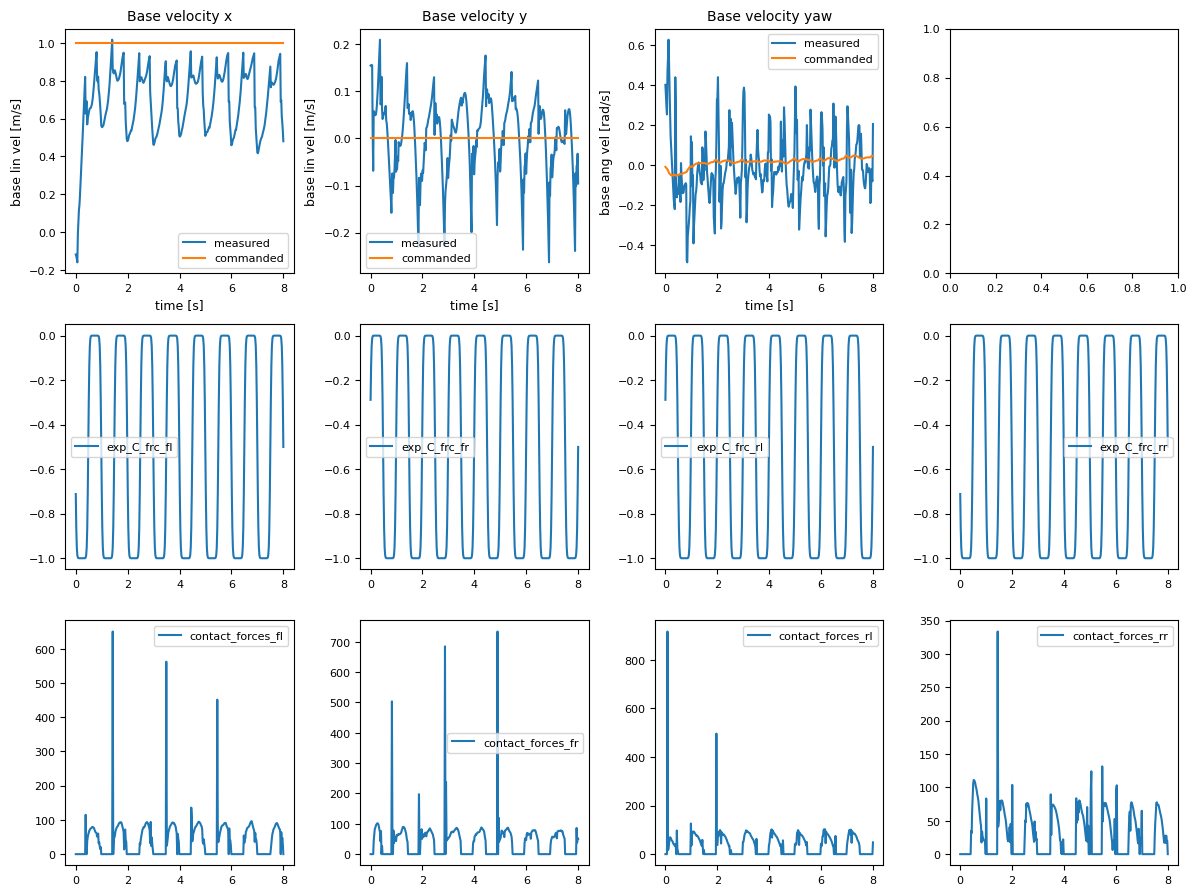
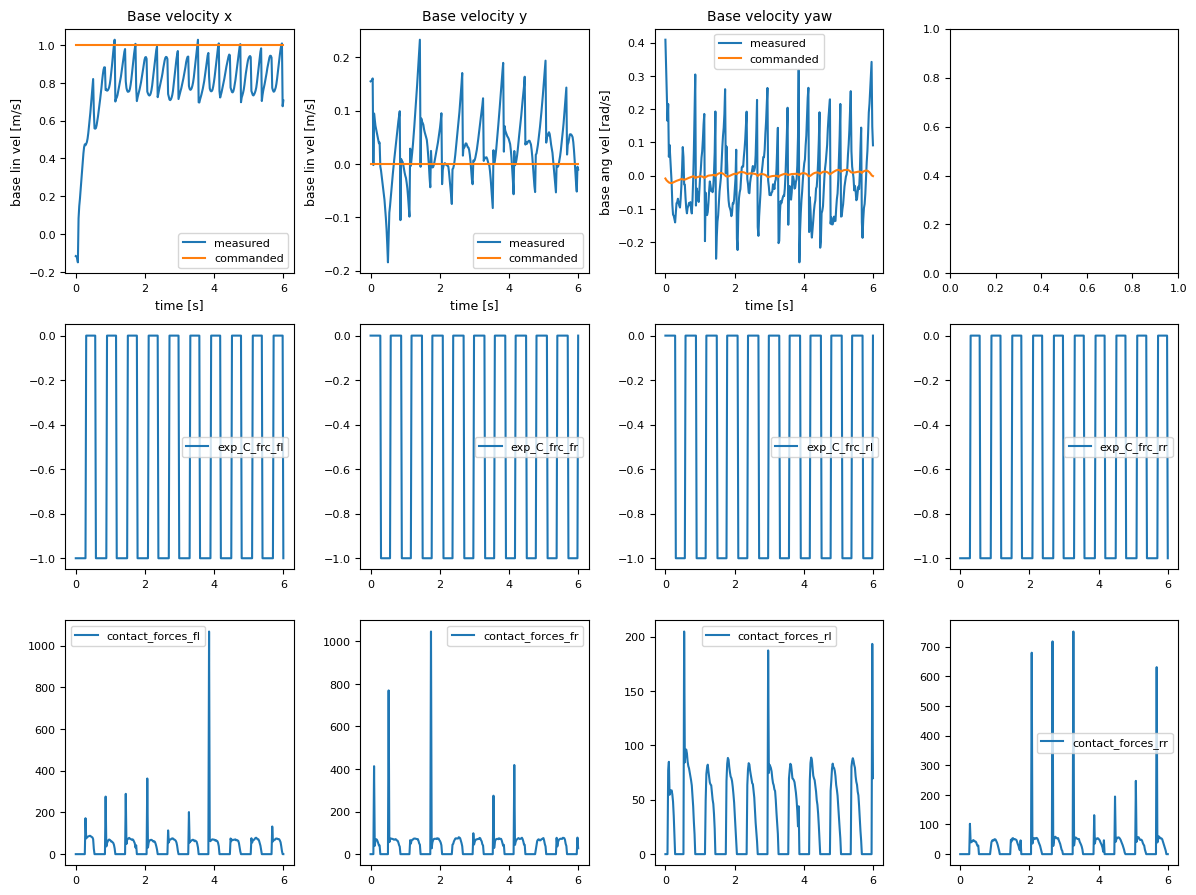
step and smooth gait functions added

diff --git a/legged_gym/envs/go2/go2_deploy/go2_deploy.py b/legged_gym/envs/go2/go2_deploy/go2_deploy.py
@@ -55,10 +55,10 @@ class GO2Deploy(LeggedRobot):
         # step after computing reward but before resetting the env
         self.gait_time += self.dt
         # +self.dt/2 in case of float precision errors
-        is_over_limit = (self.gait_time >= (torch.ones_like(
-            self.gait_time, device=self.device, dtype=gs.tc_float) - self.dt / 2))
+        is_over_limit = (self.gait_time >= (self.gait_period - self.dt / 2))
         over_limit_indices = is_over_limit.nonzero(as_tuple=False).flatten()
         self.gait_time[over_limit_indices] = 0.0
+        self.phi = self.gait_time / self.gait_period
         
         env_ids = self.reset_buf.nonzero(as_tuple=False).flatten()
         if self.num_build_envs > 0:
@@ -85,9 +85,9 @@ class GO2Deploy(LeggedRobot):
             self.dof_vel * self.obs_scales.dof_vel,        # dp_t    12
             self.actions,                                  # a_{t-1} 12
             self.clock_input,                              # clock   4
-            self.theta_fl, self.theta_fr, 
-            self.theta_rl, self.theta_rr,                  # gait offset 4
+            self.theta,                                    # gait offset 4
             self.gait_period,                              # gait period 1
+            self.b_swing,                                  # swing phase ratio 1
         ), dim=-1)
 
         if self.cfg.domain_rand.randomize_ctrl_delay:
@@ -106,9 +106,9 @@ class GO2Deploy(LeggedRobot):
                 self.dof_vel * self.obs_scales.dof_vel,        # dp_t    12
                 self.actions,                                  # a_{t-1} 12
                 self.clock_input,                              # clock   4
-                self.theta_fl, self.theta_fr, 
-                self.theta_rl, self.theta_rr,                  # gait offset 4
+                self.theta,                                    # gait offset 4
                 self.gait_period,                              # gait period 1
+                self.b_swing,                                  # swing phase ratio 1
                 # domain randomization parameters
                 self._rand_push_vels[:, :2],                   # 2
                 self._added_base_mass,                         # 1
@@ -153,38 +153,36 @@ class GO2Deploy(LeggedRobot):
             self.critic_history[i][env_ids] *= 0
         # Periodic Reward Framework
         self.gait_time[env_ids] = 0.0
+        self.phi[env_ids] = 0.0
         self.clock_input[env_ids, :] = 0.0
     
     def resample_gait(self, env_ids):
         if self.cfg.rewards.periodic_reward_framework.selected_gait is not None:
             gait = self.cfg.rewards.periodic_reward_framework.selected_gait
-            self.theta_fl[env_ids, :] = self.cfg.rewards.periodic_reward_framework.theta_fl[gait]
-            self.theta_fr[env_ids, :] = self.cfg.rewards.periodic_reward_framework.theta_fr[gait]
-            self.theta_rl[env_ids, :] = self.cfg.rewards.periodic_reward_framework.theta_rl[gait]
-            self.theta_rr[env_ids, :] = self.cfg.rewards.periodic_reward_framework.theta_rr[gait]
+            self.theta[env_ids, 0] = self.cfg.rewards.periodic_reward_framework.theta_fl[gait]
+            self.theta[env_ids, 1] = self.cfg.rewards.periodic_reward_framework.theta_fr[gait]
+            self.theta[env_ids, 2] = self.cfg.rewards.periodic_reward_framework.theta_rl[gait]
+            self.theta[env_ids, 3] = self.cfg.rewards.periodic_reward_framework.theta_rr[gait]
             self.gait_period[env_ids, :] = self.cfg.rewards.periodic_reward_framework.gait_period[gait]
             self.b_swing[env_ids, :] = self.cfg.rewards.periodic_reward_framework.b_swing[gait] * 2 * torch.pi
         else:
             # resample gait
             gait = torch.randint(
                 0, self.cfg.rewards.periodic_reward_framework.num_gaits, (len(env_ids),), device=self.device)
-            self.theta_fl[env_ids, :] = self.cfg.rewards.periodic_reward_framework.theta_fl[gait]
-            self.theta_fr[env_ids, :] = self.cfg.rewards.periodic_reward_framework.theta_fr[gait]
-            self.theta_rl[env_ids, :] = self.cfg.rewards.periodic_reward_framework.theta_rl[gait]
-            self.theta_rr[env_ids, :] = self.cfg.rewards.periodic_reward_framework.theta_rr[gait]
+            self.theta[env_ids, 0] = self.cfg.rewards.periodic_reward_framework.theta_fl[gait]
+            self.theta[env_ids, 1] = self.cfg.rewards.periodic_reward_framework.theta_fr[gait]
+            self.theta[env_ids, 2] = self.cfg.rewards.periodic_reward_framework.theta_rl[gait]
+            self.theta[env_ids, 3] = self.cfg.rewards.periodic_reward_framework.theta_rr[gait]
             self.gait_period[env_ids, :] = self.cfg.rewards.periodic_reward_framework.gait_period[gait]
             self.b_swing[env_ids, :] = self.cfg.rewards.periodic_reward_framework.b_swing[gait] * 2 * torch.pi
-        self.a_stance[env_ids, :] = self.b_swing[env_ids, :]  # a_stance is the same as b_swing
 
     # ------------- Callbacks --------------
     
     def _calc_periodic_reward_obs(self):
         """Calculate the periodic reward observations.
         """
-        self.clock_input[:, 0] = torch.sin(2 * torch.pi * (self.gait_time + self.theta_fl)).squeeze(-1)
-        self.clock_input[:, 1] = torch.sin(2 * torch.pi * (self.gait_time + self.theta_fr)).squeeze(-1)
-        self.clock_input[:, 2] = torch.sin(2 * torch.pi * (self.gait_time + self.theta_rl)).squeeze(-1)
-        self.clock_input[:, 3] = torch.sin(2 * torch.pi * (self.gait_time + self.theta_rr)).squeeze(-1)
+        for i in range(4):
+            self.clock_input[:, i] = torch.sin(2 * torch.pi * (self.phi + self.theta[:, i].unsqueeze(1))).squeeze(-1)
     
     def _post_physics_step_callback(self):
         super()._post_physics_step_callback()
@@ -250,15 +248,13 @@ class GO2Deploy(LeggedRobot):
                 )
             )
         # Periodic Reward Framework
-        self.theta_fl = torch.zeros(self.num_envs, 1, dtype=gs.tc_float, device=self.device)
-        self.theta_fr = torch.zeros(self.num_envs, 1, dtype=gs.tc_float, device=self.device)
-        self.theta_rl = torch.zeros(self.num_envs, 1, dtype=gs.tc_float, device=self.device)
-        self.theta_rr = torch.zeros(self.num_envs, 1, dtype=gs.tc_float, device=self.device)
-        self.theta_fl[:] = self.cfg.rewards.periodic_reward_framework.theta_fl[0]
-        self.theta_fr[:] = self.cfg.rewards.periodic_reward_framework.theta_fr[0]
-        self.theta_rl[:] = self.cfg.rewards.periodic_reward_framework.theta_rl[0]
-        self.theta_rr[:] = self.cfg.rewards.periodic_reward_framework.theta_rr[0]
+        self.theta = torch.zeros(self.num_envs, 4, dtype=gs.tc_float, device=self.device)
+        self.theta[:, 0] = self.cfg.rewards.periodic_reward_framework.theta_fl[0]
+        self.theta[:, 1] = self.cfg.rewards.periodic_reward_framework.theta_fr[0]
+        self.theta[:, 2] = self.cfg.rewards.periodic_reward_framework.theta_rl[0]
+        self.theta[:, 3] = self.cfg.rewards.periodic_reward_framework.theta_rr[0]
         self.gait_time = torch.zeros(self.num_envs, 1, dtype=gs.tc_float, device=self.device)
+        self.phi = torch.zeros(self.num_envs, 1, dtype=gs.tc_float, device=self.device)
         self.gait_period = torch.zeros(self.num_envs, 1, dtype=gs.tc_float, device=self.device)
         self.gait_period[:] = self.cfg.rewards.periodic_reward_framework.gait_period[0]
         self.clock_input = torch.zeros(
@@ -269,11 +265,8 @@ class GO2Deploy(LeggedRobot):
         )
         self.b_swing = torch.zeros(
             self.num_envs, 1, dtype=torch.float, device=self.device, requires_grad=False)
-        self.a_stance = torch.zeros(
-            self.num_envs, 1, dtype=torch.float, device=self.device, requires_grad=False)
         self.b_swing[:] = self.cfg.rewards.periodic_reward_framework.b_swing[0] * 2 * torch.pi
-        self.a_stance[:] = self.b_swing[:]
-    
+       
     def _create_envs(self):
         super()._create_envs()
         # distinguish between 4 feet
@@ -291,16 +284,11 @@ class GO2Deploy(LeggedRobot):
         super()._parse_cfg(cfg)
         # Periodic Reward Framework. Constants are init here.
         self.kappa = self.cfg.rewards.periodic_reward_framework.kappa
+        self.gait_function_type = self.cfg.rewards.periodic_reward_framework.gait_function_type
         self.a_swing = 0.0
-        self.b_stance = 2*torch.pi
+        self.b_stance = 2 * torch.pi
     
     def _uniped_periodic_gait(self, foot_type):
-        # coefficient
-        c_swing_spd = 0  # speed is not penalized during swing phase
-        c_swing_frc = -1  # force is penalized during swing phase
-        c_stance_spd = -1  # speed is penalized during stance phase
-        c_stance_frc = 0  # force is not penalized during stance phase
-
         # q_frc and q_spd
         if foot_type == "FL":
             q_frc = torch.norm(
@@ -309,62 +297,82 @@ class GO2Deploy(LeggedRobot):
                 self.link_vel[:, self.foot_index_fl, :], dim=-1).view(-1, 1)
             # size: num_envs; need to reshape to (num_envs, 1), or there will be error due to broadcasting
             # modulo phi over 1.0 to get cicular phi in [0, 1.0]
-            phi = (self.gait_time + self.theta_fl) % 1.0
+            phi = (self.phi + self.theta[:, 0].unsqueeze(1)) % 1.0
         elif foot_type == "FR":
             q_frc = torch.norm(
                 self.link_contact_forces[:, self.foot_index_fr, :], dim=-1).view(-1, 1)
             q_spd = torch.norm(
                 self.link_vel[:, self.foot_index_fr, :], dim=-1).view(-1, 1)
             # modulo phi over 1.0 to get cicular phi in [0, 1.0]
-            phi = (self.gait_time + self.theta_fr) % 1.0
+            phi = (self.phi + self.theta[:, 1].unsqueeze(1)) % 1.0
         elif foot_type == "RL":
             q_frc = torch.norm(
                 self.link_contact_forces[:, self.foot_index_rl, :], dim=-1).view(-1, 1)
             q_spd = torch.norm(self.link_vel[:, self.foot_index_rl, :], dim=-1).view(-1, 1)
             # modulo phi over 1.0 to get cicular phi in [0, 1.0]
-            phi = (self.gait_time + self.theta_rl) % 1.0
+            phi = (self.phi + self.theta[:, 2].unsqueeze(1)) % 1.0
         elif foot_type == "RR":
             q_frc = torch.norm(
                 self.link_contact_forces[:, self.foot_index_rr, :], dim=-1).view(-1, 1)
             q_spd = torch.norm(self.link_vel[:, self.foot_index_rr, :], dim=-1).view(-1, 1)
             # modulo phi over 1.0 to get cicular phi in [0, 1.0]
-            phi = (self.gait_time + self.theta_rr) % 1.0
-
+            phi = (self.phi + self.theta[:, 3].unsqueeze(1)) % 1.0
+        
         phi *= 2 * torch.pi  # convert phi to radians
-        # clip the value of phi to [0, 1.0]. The vonmises function in scipy may return cdf outside [0, 1.0]
-        F_A_swing = torch.clip(torch.tensor(vonmises.cdf(loc=self.a_swing, 
-            kappa=self.kappa, x=phi.cpu()), device=self.device), 0.0, 1.0)
-        F_B_swing = torch.clip(torch.tensor(vonmises.cdf(loc=self.b_swing.cpu(), 
-            kappa=self.kappa, x=phi.cpu()), device=self.device), 0.0, 1.0)
-        F_A_stance = torch.clip(torch.tensor(vonmises.cdf(loc=self.a_stance.cpu(),
-            kappa=self.kappa, x=phi.cpu()), device=self.device), 0.0, 1.0)
-        F_B_stance = torch.clip(torch.tensor(vonmises.cdf(loc=self.b_stance,
-            kappa=self.kappa, x=phi.cpu()), device=self.device), 0.0, 1.0)
+        
+        if self.gait_function_type == "smooth":
+            # coefficient
+            c_swing_spd = 0  # speed is not penalized during swing phase
+            c_swing_frc = -1  # force is penalized during swing phase
+            c_stance_spd = -1  # speed is penalized during stance phase
+            c_stance_frc = 0  # force is not penalized during stance phase
+            
+            # clip the value of phi to [0, 1.0]. The vonmises function in scipy may return cdf outside [0, 1.0]
+            F_A_swing = torch.clip(torch.tensor(vonmises.cdf(loc=self.a_swing, 
+                kappa=self.kappa, x=phi.cpu()), device=self.device), 0.0, 1.0)
+            F_B_swing = torch.clip(torch.tensor(vonmises.cdf(loc=self.b_swing.cpu(), 
+                kappa=self.kappa, x=phi.cpu()), device=self.device), 0.0, 1.0)
+            F_A_stance = F_B_swing
+            F_B_stance = torch.clip(torch.tensor(vonmises.cdf(loc=self.b_stance,
+                kappa=self.kappa, x=phi.cpu()), device=self.device), 0.0, 1.0)
 
-        # calc the expected C_spd and C_frc according to the formula in the paper
-        exp_swing_ind = F_A_swing * (1 - F_B_swing)
-        exp_stance_ind = F_A_stance * (1 - F_B_stance)
-        exp_C_spd_ori = c_swing_spd * exp_swing_ind + c_stance_spd * exp_stance_ind
-        exp_C_frc_ori = c_swing_frc * exp_swing_ind + c_stance_frc * exp_stance_ind
+            # calc the expected C_spd and C_frc according to the formula in the paper
+            exp_swing_ind = F_A_swing * (1 - F_B_swing)
+            exp_stance_ind = F_A_stance * (1 - F_B_stance)
+            exp_C_spd_ori = c_swing_spd * exp_swing_ind + c_stance_spd * exp_stance_ind
+            exp_C_frc_ori = c_swing_frc * exp_swing_ind + c_stance_frc * exp_stance_ind
 
-        # just the code above can't result in the same reward curve as the paper
-        # a little trick is implemented to make the reward curve same as the paper
-        # first let all envs get the same exp_C_frc and exp_C_spd
-        exp_C_frc = -0.5 + (-0.5 - exp_C_spd_ori)
-        exp_C_spd = exp_C_spd_ori
-        # select the envs that are in swing phase
-        is_in_swing = (phi >= self.a_swing) & (phi < self.b_swing)
-        indices_in_swing = is_in_swing.nonzero(as_tuple=False).flatten()
-        # update the exp_C_frc and exp_C_spd of the envs in swing phase
-        exp_C_frc[indices_in_swing] = exp_C_frc_ori[indices_in_swing]
-        exp_C_spd[indices_in_swing] = -0.5 + \
-            (-0.5 - exp_C_frc_ori[indices_in_swing])
+            # just the code above can't result in the same reward curve as the paper
+            # a little trick is implemented to make the reward curve same as the paper
+            # first let all envs get the same exp_C_frc and exp_C_spd
+            exp_C_frc = -0.5 + (-0.5 - exp_C_spd_ori)
+            exp_C_spd = exp_C_spd_ori
+            # select the envs that are in swing phase
+            is_in_swing = (phi >= self.a_swing) & (phi < self.b_swing)
+            indices_in_swing = is_in_swing.nonzero(as_tuple=False).flatten()
+            # update the exp_C_frc and exp_C_spd of the envs in swing phase
+            exp_C_frc[indices_in_swing] = exp_C_frc_ori[indices_in_swing]
+            exp_C_spd[indices_in_swing] = -0.5 + \
+                (-0.5 - exp_C_frc_ori[indices_in_swing])
 
-        # Judge if it's the standing gait
-        is_standing = (self.b_swing[:] == self.a_swing).nonzero(
-            as_tuple=False).flatten()
-        exp_C_frc[is_standing] = 0
-        exp_C_spd[is_standing] = -1
+            # Judge if it's the standing gait
+            is_standing = (self.b_swing[:] == self.a_swing).nonzero(
+                as_tuple=False).flatten()
+            exp_C_frc[is_standing] = 0
+            exp_C_spd[is_standing] = -1
+        elif self.gait_function_type == "step":
+            ''' ***** Step Gait Indicator ***** '''
+            exp_C_frc = torch.zeros(self.num_envs, 1, dtype=gs.tc_float, device=self.device)
+            exp_C_spd = torch.zeros(self.num_envs, 1, dtype=gs.tc_float, device=self.device)
+            
+            swing_indices = (phi >= self.a_swing) & (phi < self.b_swing)
+            swing_indices = swing_indices.nonzero(as_tuple=False).flatten()
+            stance_indices = (phi >= self.b_swing) & (phi < self.b_stance)
+            stance_indices = stance_indices.nonzero(as_tuple=False).flatten()
+            exp_C_frc[swing_indices, :] = -1
+            exp_C_spd[swing_indices, :] = 0
+            exp_C_frc[stance_indices, :] = 0
+            exp_C_spd[stance_indices, :] = -1
 
         return exp_C_spd * q_spd + exp_C_frc * q_frc, \
             exp_C_spd.type(dtype=torch.float), exp_C_frc.type(dtype=torch.float)

diff --git a/legged_gym/envs/go2/go2_deploy/go2_deploy_config.py b/legged_gym/envs/go2/go2_deploy/go2_deploy_config.py
@@ -10,9 +10,9 @@ class GO2DeployCfg(LeggedRobotCfg):
         # observation history
         frame_stack = 5   # policy frame stack
         c_frame_stack = 3  # critic frame stack
-        num_single_obs = 54
+        num_single_obs = 55
         num_observations = int(num_single_obs * frame_stack)
-        single_num_privileged_obs = 73
+        single_num_privileged_obs = 74
         num_privileged_obs = int(c_frame_stack * single_num_privileged_obs)
 
     class terrain(LeggedRobotCfg.terrain):
@@ -73,7 +73,7 @@ class GO2DeployCfg(LeggedRobotCfg):
 
     class rewards(LeggedRobotCfg.rewards):
         soft_dof_pos_limit = 0.9
-        base_height_target = 0.36
+        base_height_target = 0.34
         
         foot_clearance_target = 0.05  # desired foot clearance above ground [m]
         foot_height_offset = 0.022 # height of the foot coordinate origin above ground [m]
@@ -105,6 +105,7 @@ class GO2DeployCfg(LeggedRobotCfg):
 
         class periodic_reward_framework:
             '''Periodic reward framework in OSU's paper(https://arxiv.org/abs/2011.01387)'''
+            gait_function_type = "step" # can be "step" or "smooth"
             kappa = 20
             resampling_time = 6.0                      # gait resampling time [s]
             gait_period = [0.5]                         # gait period [s]
@@ -159,9 +160,9 @@ class GO2DeployCfgPPO(LeggedRobotCfgPPO):
         entropy_coef = 0.01
 
     class runner(LeggedRobotCfgPPO.runner):
-        run_name = ''
+        run_name = 'smooth_gait'
         experiment_name = 'go2_deploy'
         save_interval = 100
-        load_run = "Jul23_12-01-08_"
+        load_run = "Jul23_16-56-35_smooth_gait"
         checkpoint = -1
-        max_iterations = 4000
+        max_iterations = 3000

diff --git a/legged_gym/utils/logger.py b/legged_gym/utils/logger.py
@@ -3,6 +3,7 @@ from collections import defaultdict
 import numpy as np
 import matplotlib.pyplot as plt
 import matplotlib
+import xlsxwriter
 
 # Fix font issues
 plt.rcParams.update({
@@ -14,6 +15,8 @@ plt.rcParams.update({
     'legend.fontsize': 8,
     'figure.titlesize': 12
 })
+
+EXCEL_FILENAME = "/home/lupinjia/Documents/2025/genesis_test/20250723_go2_deploy_step_gait.xlsx"
 
 
 class Logger:
@@ -176,6 +179,27 @@ class Logger:
 class QuadLogger(Logger):
     def __init__(self, dt):
         super().__init__(dt)
+    
+    def set_header_of_xlsx(self):
+        self.workbook = xlsxwriter.Workbook(EXCEL_FILENAME)
+        self.worksheet = self.workbook.add_worksheet()
+        label = list(self.state_log.keys())
+        for i in range(len(label)):
+            self.worksheet.write(0, i, label[i])
+    
+    def save_data_to_xlsx(self):
+        '''
+        save the data to a excel file
+        '''
+        # set header
+        self.set_header_of_xlsx()
+        # get the first key, to get the length of the data
+        first_key = list(self.state_log.keys())[0]
+        for row in range(len(self.state_log[first_key])):
+            for col, key in enumerate(self.state_log.keys()):
+                self.worksheet.write(1+row, col, self.state_log[key][row])
+        self.workbook.close()
+        print("xlsx file created and filled!")
 
     def _plot(self):
         # Set matplotlib parameters to avoid font issues

diff --git a/legged_gym/scripts/play_quad_deploy.py b/legged_gym/scripts/play_quad_deploy.py
@@ -59,7 +59,7 @@ def play(args):
     logger = QuadLogger(env.dt)
     robot_index = 0 # which robot is used for logging
     joint_index = 2 # which joint is used for logging
-    stop_state_log = 400 # number of steps before plotting states
+    stop_state_log = 300 # number of steps before plotting states
     stop_rew_log = env.max_episode_length + 1 # number of steps before print average episode rewards
     
     # for MOVE_CAMERA
@@ -121,6 +121,7 @@ def play(args):
             )
         elif i==stop_state_log:
             logger.plot_states()
+            logger.save_data_to_xlsx()
         if  0 < i < stop_rew_log:
             if infos["episode"]:
                 num_episodes = torch.sum(env.reset_buf).item()

diff --git a/README.md b/README.md
@@ -80,7 +80,7 @@ A [legged_gym](https://github.com/leggedrobotics/legged_gym) based framework for
   
   | Method | Paper Link | Location |
   |--------|------------|----------|
-  | Periodic Gait Reward | [Sim-to-Real Learning of All Common Bipedal Gaits via Periodic Reward Composition](https://arxiv.org/abs/2011.01387) | `_uniped_periodic_gait() in go2_deploy.py` |
+  | Periodic Gait Reward | [Sim-to-Real Learning of All Common Bipedal Gaits via Periodic Reward Composition](https://arxiv.org/abs/2011.01387) | [`_uniped_periodic_gait() in go2_deploy.py`](https://github.com/lupinjia/genesis_lr/blob/main/legged_gym/envs/go2/go2_deploy/go2_deploy.py) |
 
 ## 🧪 Test Results
 

diff --git a/test_resources/gait_reward_type/gait_reward_type.md b/test_resources/gait_reward_type/gait_reward_type.md
@@ -1,0 +1,20 @@
+# Influence of different gait reward types on training performance and deployment performance
+
+Two groups are tested:
+- Smooth Gait Function
+
+    Smooth reward function for gait specification, proposed in [Sim-to-Real Learning of All Common Bipedal Gaits via Periodic Reward Composition](https://arxiv.org/abs/2011.01387), whose gait indicator curves are as follows:
+
+    ![](./exp_C_frc_smooth_gait.png)
+
+- Step Gait Function
+
+    Substitute `uniped_periodic_gait` function with a simple step function. Gait indicator curves for this group are shown below:
+
+    ![](./exp_C_frc_step_gait.png)
+
+## Training Performance
+
+
+
+
